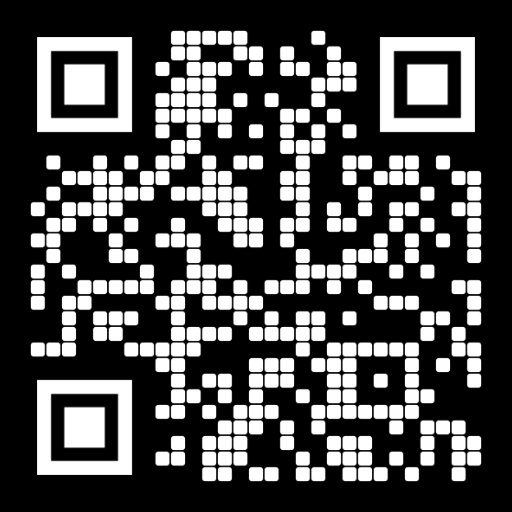
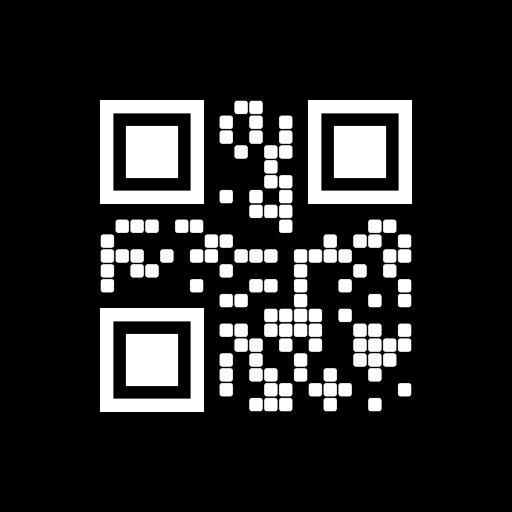
Update inverted example.

diff --git a/examples/invert.go b/examples/invert.go
@@ -12,7 +12,7 @@ import (
 
 func main() {
 	qr, e := gqr.NewWith(
-		"https://github.com/quickqr/gqr",
+		"Hello!",
 	)
 
 	if e != nil {
@@ -24,6 +24,7 @@ func main() {
 		NewExporter(
 			export.WithBgColor(color.Black),
 			export.WithFgColor(color.White),
+			export.WithQuietZone(100),
 			// Works better with rounded module shapes
 			export.WithModuleGap(0.1),
 			export.WithModuleShape(shapes.RoundedModuleShape(0.2)),
